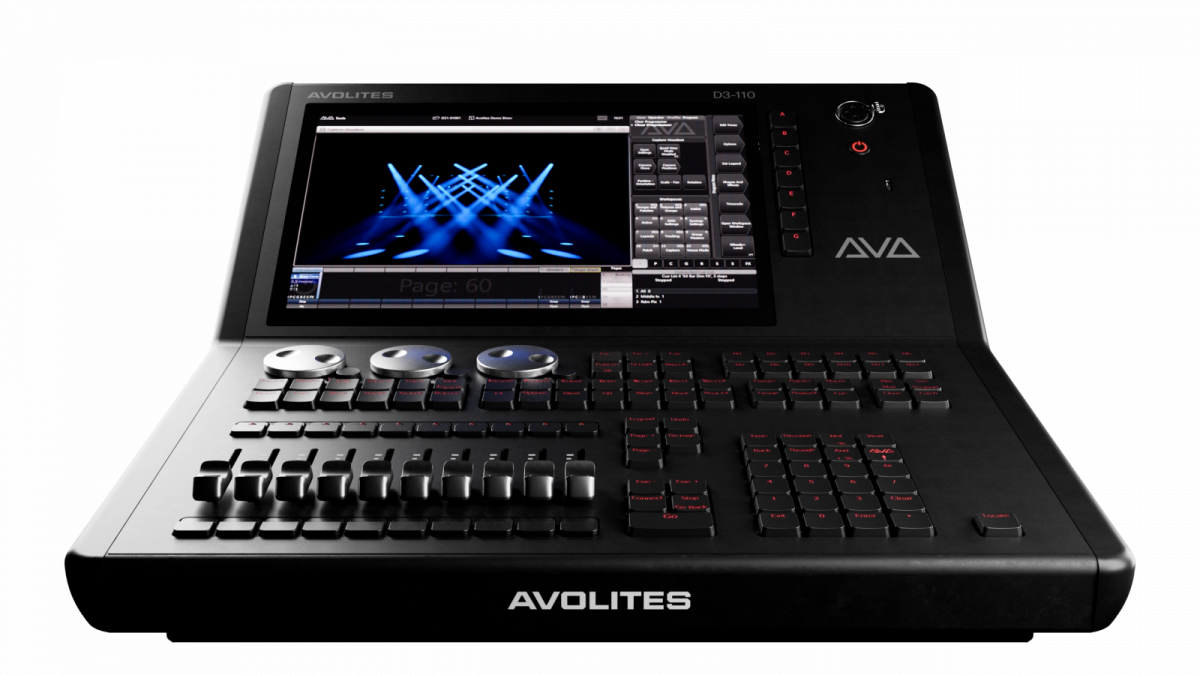
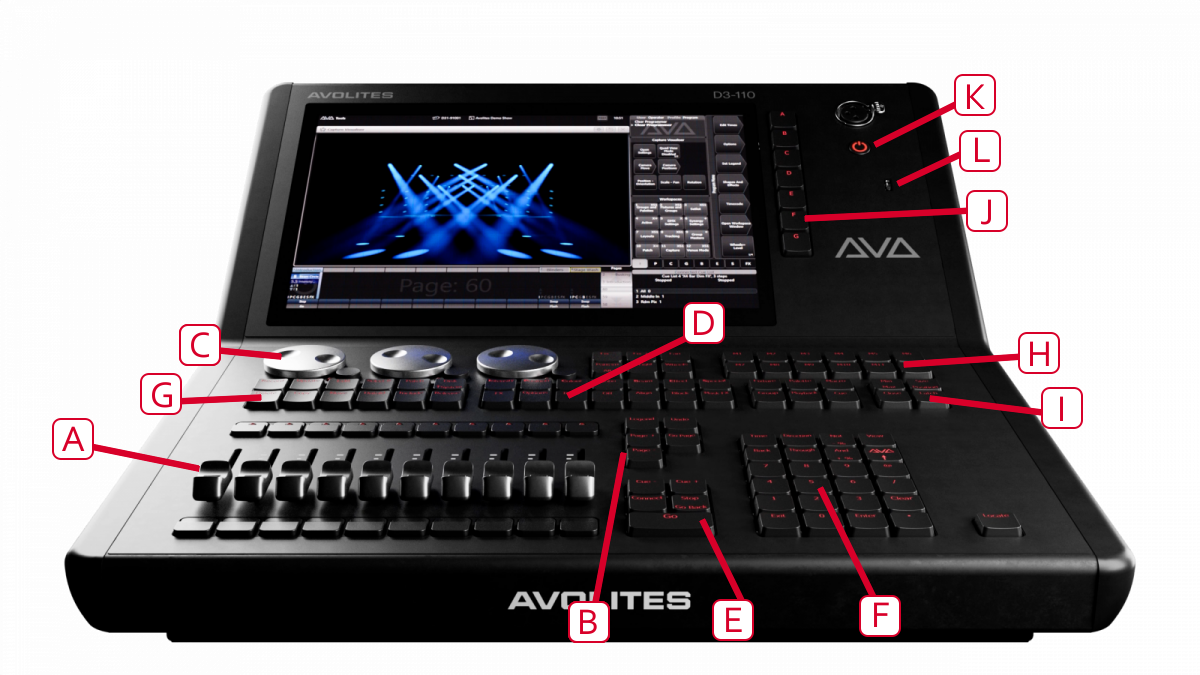
Add D3-110 image. Update max lines info.

diff --git a/docs/system-settings/dmx-output-mapping.md b/docs/system-settings/dmx-output-mapping.md
@@ -15,37 +15,34 @@ You can also assign sACN inputs to lines which can be used to record cues and pa
 The Titan system can control up to 64 lines/universes, but some consoles are limited by licence to lower numbers of output lines. The lines/universes
 can be set to any number from 1 - 9999 but there can't be more than 64 of them in total.
 
-Console | Licensed lines | Recommended processing lines
+Console | Licensed lines | Onboard processing limit
 --------|----------------|-------
-Simulator      | 64* | 1
+Simulator      | 64 (note 1) | 
 T1             | 1   | 1
 T2             | 2   | 2
-T3             | 16^ | 16
+T3             | 16 (note 2) | 16 (note 3)
 D3-010         | 8   | 8
 D3-110         | 24  | 24
 D3-Core        | 16  | 16
-D7             | 64  | 32
-D9             | 64  | 32
-Titan Mobile   | 64  | 16
-Quartz         | 64  | 16
-Tiger Touch 2  | 64  | 16
-Arena          | 64  | 16
-Sapphire       | 64  | 16
+D7             | 64  | 32 (note 3)
+D9             | 64  | 32 (note 3)
+Titan Mobile   | 64  | 16 (note 3)
+Quartz         | 64  | 16 (note 3)
+Tiger Touch 2  | 64  | 16 (note 3)
+Arena          | 64  | 16 (note 3)
+Sapphire       | 64  | 16 (note 3)
 
-*Simulator outputs DMX spoiler every few minutes <br/>
-^T3 licence can be expanded to 64 universes with optional licence pack, recommended processing remains 16 lines.
+Note 1: Simulator outputs DMX spoiler every few minutes <br/>
+Note 2: T3 licence can be expanded to 64 universes with optional licence pack, onboard processing remains 16 lines. <br/>
+Note 3: Processing for extra lines can be added using TNP (TitanNet Processing)
 
-The console itself will process DMX output for a number of lines as shown above, for larger systems above that you can network the console to one
+The console itself will process DMX output for a number of lines as shown above, for larger systems above that you need to network the console to one
 or more [Avolites TitanNet Processing (TNP) nodes](../titan-net.md). This off-loads the DMX
 processing, allowing the console to control up to its maximum licensed number of DMX universes
  (a TNP will not increase the number of licensed universes available from a system, nor can you increase the number
 of licensed universes by connecting multiple devices).
 
-> For 64-line consoles, the software does not enforce the processing line limit, but performance of the console may be
-degraded depending on the complexity of the content and the number of fixtures patched. A warning will be shown in the processing load section of
-the TitanNet overview.
-
-If a show file is loaded into a console with a lower number of licensed outputs, the lowest-numbered lines will be output. All patch and programming information will be retained for other lines but no control data will be output.
+>  If a show file is loaded into a console with a lower number of licensed outputs, the lowest-numbered lines will be output. All patch and programming information will be retained for other lines but no control data will be output.
 
 ## Default output settings
 

diff --git a/docs/glossary.md b/docs/glossary.md
@@ -98,7 +98,7 @@ TIMES		| Many elements of programming can be timed to create effects, these toge
 TNP			| Titan Network Processor, a rack mount unit to handle the processing of additional DMX Universes or to operate automatic shows.
 TRACKING	| Describes the operation of Cue Lists where attribute states follow through from previous cues unless changed by the user.
 UNFOLD		| A function that allows Chase steps to be laid out onto the playback faders for easy editing.
-UNIVERSE	| A full set of 512 DMX control channels/slots. Titan consoles can create up to 64 universes, 16 on the console and the rest remotely using network processing.
+UNIVERSE	| A full set of 512 DMX control channels/slots. 
 UPS			| Uninterruptible Power Supply, fitted internally in some consoles, to keep the console running in case of power failure.
 USER NUMBER	| Each fixture / dimmer has a User Number which allows you to select them using the numeric keypad and <Keys.HardKey>Through</Keys.HardKey> button, as commonly used on other types of console.
 USER SETTINGS	| User definable desk settings. To change them, hold down the Avo button and select [User Settings].

diff --git a/docs/about-the-consoles/d3.md b/docs/about-the-consoles/d3.md
@@ -74,9 +74,9 @@ in the manual like this: <Keys.SoftKey>Edit Times</Keys.SoftKey>.
 At the bottom right of the console, the <Keys.HardKey>Locate</Keys.HardKey> button is used to light up and set selected fixtures to a zero position.
 
 
-&nbsp;<Keys.Annotation>K</Keys.Annotation> The **Fixture Select buttons** are used when programming to step through a range of selected fixtures, turn highlighting on or off, fan the values or select a pattern of fixtures.
+&nbsp;<Keys.Annotation>K</Keys.Annotation> The **Power button** is used to power the console on and off ensuring correct shutdown.
 
-&nbsp;<Keys.Annotation>L</Keys.Annotation> The **Syntax Select buttons** are used to form syntax/keypad commands when you are programming.
+&nbsp;<Keys.Annotation>L</Keys.Annotation> The **Front USB socket** is provided for USB sticks to save and reload shows (further USB sockets fitted on rear).
 
 
 ![D3-110 back panel](/docs/images/D3-110-back.png)

diff --git a/docs/networking.md b/docs/networking.md
@@ -10,7 +10,7 @@ There are a number of ways for the console to communicate with lighting fixtures
 
 If the console has multiple network ports, DMX will be output on all ports. You can set this from the [DMX module properties](system-settings/dmx-output-mapping.md#configuring-dmx-outputs) in the DMX Settings window, each port is listed with a switch to enable or disable it.
 
-You can also connect to [networked processing nodes](titan-net.md), which allow you to control up to 64 universes of DMX.
+You can also connect to [networked processing nodes](titan-net.md), which off-load the output processing allowing you to output further DMX lines up to the full licensed limit of your console.
 
 The console may also be networked with other Titan consoles for multi-user control, and for backup.
 

diff --git a/docs/about-the-consoles/t3.md b/docs/about-the-consoles/t3.md
@@ -11,7 +11,7 @@ T3 is a USB control surface which plugs into a Windows PC or laptop running the 
 See [minimum PC specifications](../titan-basics.md#connecting-up-t3--titan-mobile-and-t1t2) for details of the PC requirements. Four DMX outputs are provided, up to 16 DMX lines/universes may be controlled over Ethernet. 
 
 > You can expand the output up to 64 lines/universes by purchasing an optional licence, 
- contact Avolites Support for details. Additional processing (TNP) is recommended for outputs above 16 lines.
+ contact Avolites Support for details. Additional processing (TNP - TitanNet Processor) is also required for outputs above 16 lines.
 
 ![T3](/docs/images/T3-Main.png)
 

diff --git a/docs/remote-control/programming-touch-panels.md b/docs/remote-control/programming-touch-panels.md
@@ -18,8 +18,8 @@ Users can also trigger up to 8 macros and lock/unlock the panel.
 
 ## Connecting the touch panel
 
-Touch panels are connected into the Titan system by wired Ethernet. You will need a PoE-equipped network switch
-to power the panel.
+Touch panels are connected into the Titan system by wired Ethernet. You can use a Power-over-Ethernet (PoE) equipped network switch, a PoE injector
+or a DC adaptor to power the panel.
 
 You will need to set suitable IP addresses on the console and on the touch panel or configure DHCP on your network to automatically provide suitable addresses -
 read more about [Networking the Console](../networking.md).

diff --git a/docs/about-the-consoles/tnp.md b/docs/about-the-consoles/tnp.md
@@ -14,7 +14,7 @@ import Video from '@site/src/components/video.tsx';
 
 The TitanNet Processor is the insides of a console without the control
 surface. It allows you to expand the number of DMX lines in a show
-beyond the 16 which a console can produce by offloading the processing
+beyond the internal processing limit of the console by offloading the processing
 into a separate unit.
 
 
